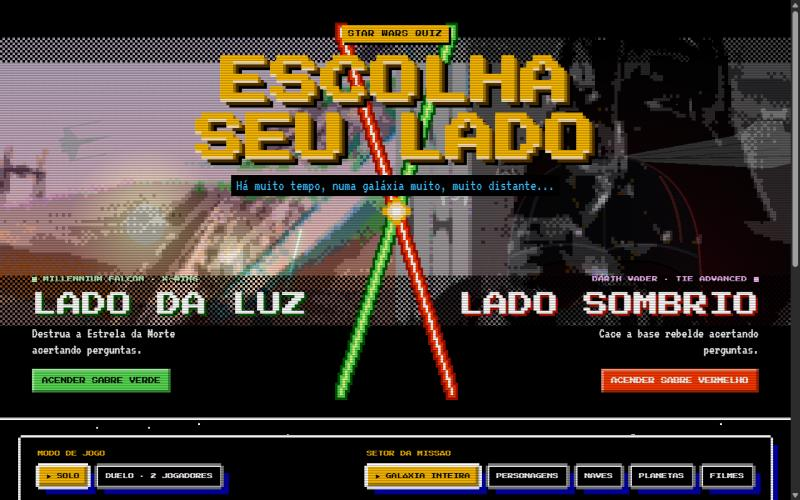
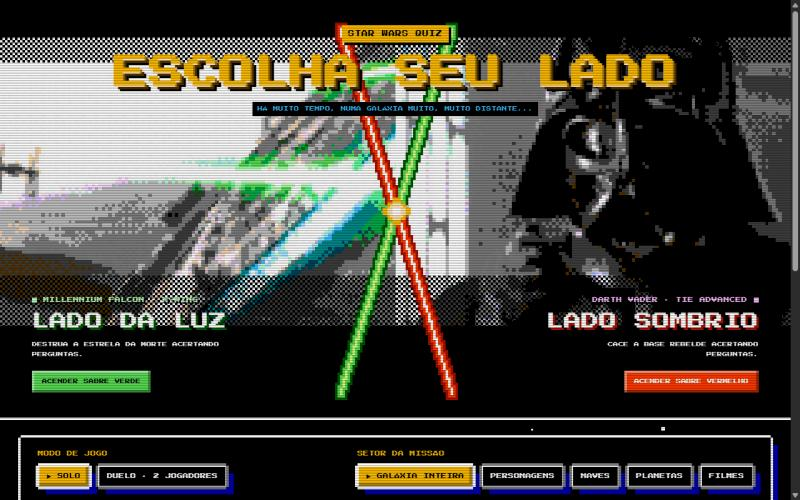
Deixa todo o texto em maiúsculas, pequeno e pixelado
- Press Start 2P em todo o site, no lugar da VT323, com text-transform
  uppercase; texto corrido em 8px e títulos reduzidos na mesma proporção.
- Screenshots do README refeitas.

diff --git a/css/style.css b/css/style.css
@@ -20,7 +20,7 @@
   --edge: var(--ink);
   --px: 4px;
   --pixel: "Press Start 2P", "Courier New", monospace;
-  --body: "VT323", "Courier New", monospace;
+  --body: var(--pixel);
   color-scheme: dark;
 }
 body[data-side="light"] { --side: var(--saber-light); }
@@ -34,7 +34,9 @@ body {
   margin: 0;
   background: var(--void);
   color: var(--ink);
-  font: 400 1.375rem/1.15 var(--body);
+  font: 400 .5rem/2 var(--pixel);
+  text-transform: uppercase;
+  letter-spacing: .04em;
   overflow-x: hidden;
   display: flex;
   flex-direction: column;
@@ -54,7 +56,7 @@ body::after {
 canvas.px, .sprite, #stars, #clash-canvas { image-rendering: pixelated; image-rendering: crisp-edges; }
 #stars { position: fixed; inset: 0; width: 100%; height: 100%; z-index: 0; pointer-events: none; }
 .screen { position: relative; z-index: 1; flex: 1; width: 100%; }
-button { font: inherit; color: inherit; cursor: var(--cursor, pointer); }
+button, input { font: inherit; color: inherit; text-transform: inherit; letter-spacing: inherit; cursor: var(--cursor, pointer); }
 button:focus-visible, a:focus-visible, h2:focus-visible, input:focus-visible { outline: 4px dashed var(--gold); outline-offset: 6px; }
 h2:focus { outline: none; }
 a { color: var(--gold); }
@@ -132,7 +134,7 @@ img.px-src, svg.px-src { display: none !important; }
 }
 h1 {
   margin: 0;
-  font: 400 clamp(1.75rem, 6.4vw, 5rem)/1.15 var(--pixel);
+  font: 400 clamp(1.5rem, 4.6vw, 3.5rem)/1.2 var(--pixel);
   text-transform: uppercase;
   text-wrap: balance;
   color: var(--gold);
@@ -145,7 +147,7 @@ h1 {
 .tagline {
   margin: 0;
   padding: 4px 8px;
-  font: 400 clamp(1.125rem, 2vw, 1.5rem)/1.1 var(--body);
+  font: 400 .5rem/1.8 var(--pixel);
   color: var(--holo);
   background: #000;
 }
@@ -235,14 +237,14 @@ canvas.scene-photo { transform-origin: 60% 40%; animation: blink-in .4s steps(3)
   background: currentColor;
   animation: blink 1s steps(1) infinite;
 }
-.side-copy strong { font: 400 clamp(1.25rem, 3.2vw, 2.5rem)/1.2 var(--pixel); text-transform: uppercase; }
+.side-copy strong { font: 400 clamp(1rem, 2.4vw, 1.75rem)/1.3 var(--pixel); text-transform: uppercase; }
 .side-light .side-copy strong { color: #fcfcfc; text-shadow: 4px 4px 0 #005800; }
 .side-dark .side-copy strong { color: #fcfcfc; text-shadow: 4px 4px 0 #a81000; }
-.side-goal { max-width: 32ch; font-size: 1.375rem; color: #fcfcfc; }
+.side-goal { max-width: 40ch; font-size: .5rem; line-height: 2; color: #fcfcfc; }
 .side-cta {
   margin-top: 8px;
   padding: 12px 16px;
-  font: 400 .625rem/1.4 var(--pixel);
+  font: 400 .5rem/1.4 var(--pixel);
   text-transform: uppercase;
   color: #000;
   text-shadow: none;
@@ -296,7 +298,7 @@ canvas.scene-photo { transform-origin: 60% 40%; animation: blink-in .4s steps(3)
 .chip[aria-pressed="true"]::before { content: "▶ "; }
 .readouts { display: flex; flex-wrap: wrap; gap: 12px 36px; margin: 0; }
 .readouts dt { margin-bottom: 6px; color: var(--muted); }
-.readouts dd { margin: 0; font: 400 .875rem/1.4 var(--pixel); color: var(--ink); }
+.readouts dd { margin: 0; font: 400 .5rem/1.4 var(--pixel); color: var(--ink); }
 
 /* Galeria do holocron */
 .holocron { position: relative; z-index: 1; display: grid; gap: 18px; padding-block: 40px 24px; overflow: hidden; }
@@ -309,7 +311,7 @@ canvas.scene-photo { transform-origin: 60% 40%; animation: blink-in .4s steps(3)
   width: min(1200px, calc(100% - 40px));
   margin: 0 auto;
 }
-.holocron-head .eyebrow { color: var(--holo); font-size: .75rem; }
+.holocron-head .eyebrow { color: var(--holo); font-size: .5rem; }
 .holocron-head .eyebrow::before { content: "■ "; animation: blink 1s steps(1) infinite; }
 .holocron-note { margin: 0; color: var(--muted); }
 .reel { overflow: hidden; padding-block: 8px; }
@@ -378,7 +380,7 @@ canvas.scene-photo { transform-origin: 60% 40%; animation: blink-in .4s steps(3)
 .hud-stats { display: flex; gap: 28px; margin: 0; }
 .hud-stats div { display: flex; align-items: baseline; gap: 10px; }
 .hud-stats dt { font: 400 .5rem var(--pixel); text-transform: uppercase; color: var(--muted); }
-.hud-stats dd { margin: 0; font: 400 1rem var(--pixel); color: var(--side); text-shadow: 3px 3px 0 #000; }
+.hud-stats dd { margin: 0; font: 400 .75rem var(--pixel); color: var(--side); text-shadow: 3px 3px 0 #000; }
 .ghost {
   padding: 9px 12px;
   background: #000;
@@ -544,7 +546,7 @@ canvas.scene-photo { transform-origin: 60% 40%; animation: blink-in .4s steps(3)
 .qa .eyebrow::before { content: "▶"; animation: blink 1s steps(1) infinite; }
 .qa h2 {
   margin: 0;
-  font: 400 clamp(1rem, 2.2vw, 1.625rem)/1.5 var(--pixel);
+  font: 400 clamp(.75rem, 1.6vw, 1rem)/1.8 var(--pixel);
   text-wrap: balance;
   text-shadow: 4px 4px 0 #000;
 }
@@ -581,7 +583,7 @@ canvas.scene-photo { transform-origin: 60% 40%; animation: blink-in .4s steps(3)
 .option .thumb[data-kind="ship"] img, .option .thumb[data-kind="planet"] img { padding: 4%; }
 .option .thumb[data-kind="poster"] { width: 44px; height: 62px; }
 .option .thumb .photo-fallback, .scale-name .thumb .photo-fallback, .review .thumb .photo-fallback { padding: 14%; }
-.option-label { min-width: 0; font-size: 1.5rem; line-height: 1; }
+.option-label { min-width: 0; font-size: .5rem; line-height: 1.8; }
 button.option:hover:not(:disabled) { background: var(--side); color: var(--side-ink); --edge: var(--ink); }
 button.option:hover:not(:disabled) kbd { background: #000; color: var(--side); --edge: var(--ink); }
 button.option:hover:not(:disabled)::before {
@@ -612,7 +614,7 @@ button.option:active:not(:disabled) { transform: translate(4px, 4px); --drop: 4p
 .option.is-wrong::after { background-image: var(--icon-cross); background-size: 18px auto; filter: invert(1); }
 @keyframes hit { 25% { transform: translateX(-8px); } 50% { transform: translateX(8px); } 75% { transform: translateX(-4px); } }
 .lifelines { display: flex; flex-wrap: wrap; gap: 14px 18px; align-items: center; padding: 4px; }
-.timer-readout { margin-left: auto; font: 400 1.125rem var(--pixel); color: var(--side); text-shadow: 3px 3px 0 #000; }
+.timer-readout { margin-left: auto; font: 400 .75rem var(--pixel); color: var(--side); text-shadow: 3px 3px 0 #000; }
 .reveal {
   display: grid;
   gap: 14px;
@@ -624,7 +626,7 @@ button.option:active:not(:disabled) { transform: translate(4px, 4px); --drop: 4p
   animation: drop-in .3s steps(3) both;
 }
 .reveal p { margin: 0; }
-.verdict { font: 400 1.25rem/1.3 var(--pixel); text-transform: uppercase; text-shadow: 4px 4px 0 #000; }
+.verdict { font: 400 .875rem/1.5 var(--pixel); text-transform: uppercase; text-shadow: 4px 4px 0 #000; }
 .verdict.good { color: var(--good); }
 .verdict.bad { color: var(--bad); }
 .primary {
@@ -673,7 +675,7 @@ body[data-side="duel"] { --side: var(--gold); }
   background: #000;
   border: 0;
   color: var(--ink);
-  font: 400 1.375rem var(--body);
+  font: 400 .5rem/1.5 var(--pixel);
   --edge: var(--dim);
 }
 .duel-names label:first-child input:focus { outline: none; --edge: var(--saber-light); }
@@ -683,8 +685,8 @@ body[data-side="duel"] { --side: var(--gold); }
 .life { --life: var(--saber-light); display: grid; gap: 8px; min-width: 0; }
 .life-dark { --life: var(--saber-dark); }
 .life header { display: flex; justify-content: space-between; align-items: baseline; gap: 10px; }
-.life header span { font: 400 .75rem/1.4 var(--pixel); text-transform: uppercase; overflow: hidden; text-overflow: ellipsis; white-space: nowrap; }
-.life header b { font: 400 .75rem var(--pixel); color: var(--life); }
+.life header span { font: 400 .5rem/1.6 var(--pixel); text-transform: uppercase; overflow: hidden; text-overflow: ellipsis; white-space: nowrap; }
+.life header b { font: 400 .5rem var(--pixel); color: var(--life); }
 .life-bar { height: 16px; padding: 2px; background: #000; box-shadow: 0 0 0 4px var(--ink); }
 .life-bar i {
   display: block;
@@ -715,7 +717,7 @@ body[data-side="duel"] { --side: var(--gold); }
   font: 400 .875rem/1 var(--pixel);
   --edge: var(--dim);
 }
-.pad-keys button small { font: 400 1rem var(--body); color: var(--muted); }
+.pad-keys button small { font: 400 .4375rem var(--pixel); color: var(--muted); }
 .pad-keys button:hover:not(:disabled) { background: var(--pad); color: #000; --edge: var(--ink); }
 .pad-keys button:hover:not(:disabled) small { color: #000; }
 .pad-keys button:disabled { opacity: .35; cursor: default; }
@@ -766,7 +768,7 @@ body[data-side="duel"] { --side: var(--gold); }
   width: min(92vw, 640px);
   margin-left: calc(min(92vw, 640px) / -2);
   color: var(--crawl);
-  font: 400 clamp(.75rem, 1.8vw, 1rem)/1.9 var(--pixel);
+  font: 400 clamp(.5rem, 1.4vw, .75rem)/2 var(--pixel);
   text-align: justify;
   text-shadow: 3px 3px 0 #000, -1px -1px 0 #000;
   transform-origin: 50% 100%;
@@ -793,7 +795,7 @@ body[data-side="duel"] { --side: var(--gold); }
 }
 .result h2 {
   margin: 0;
-  font: 400 clamp(1.5rem, 5vw, 3.25rem)/1.25 var(--pixel);
+  font: 400 clamp(1.25rem, 3.6vw, 2.25rem)/1.3 var(--pixel);
   text-transform: uppercase;
   color: var(--side);
   text-shadow: .08em .08em 0 #000, .12em .12em 0 var(--ink);
@@ -802,15 +804,15 @@ body[data-side="duel"] { --side: var(--gold); }
 .result p { margin: 0; }
 .result .readouts { display: grid; grid-template-columns: repeat(auto-fit, minmax(160px, 1fr)); gap: 20px; padding: 4px; }
 .result .readouts div { padding: 12px 14px; background: #000; --edge: var(--dim); }
-.result .readouts dd { font-size: 1.125rem; color: var(--side); }
+.result .readouts dd { font-size: .75rem; color: var(--side); }
 .result-actions { display: flex; flex-wrap: wrap; gap: 18px; padding: 4px; }
 .copy-text { display: block; margin: 4px; padding: 10px; background: #000; user-select: all; overflow-wrap: anywhere; --edge: var(--dim); }
-.result h3 { margin: 12px 0 8px; font: 400 .875rem/1.4 var(--pixel); text-transform: uppercase; color: var(--gold); }
+.result h3 { margin: 12px 0 8px; font: 400 .625rem/1.6 var(--pixel); text-transform: uppercase; color: var(--gold); }
 .review { margin: 0; padding: 4px; list-style: none; display: grid; gap: 18px; }
 .review li { display: flex; gap: 14px; align-items: center; padding: 10px 12px; background: #000; --edge: var(--dim); }
 .review .thumb { flex: none; width: 52px; height: 52px; }
 .review .thumb[data-kind="poster"] { width: 40px; height: 58px; }
-.review small { display: block; color: var(--muted); font-size: 1.25rem; }
+.review small { display: block; margin-top: 6px; color: var(--muted); font-size: .4375rem; line-height: 1.9; }
 
 .credits {
   position: relative;
@@ -818,7 +820,8 @@ body[data-side="duel"] { --side: var(--gold); }
   padding-block: 16px;
   padding-left: max(16px, env(safe-area-inset-left, 0px));
   padding-right: max(16px, env(safe-area-inset-right, 0px));
-  font-size: 1.125rem;
+  font-size: .4375rem;
+  line-height: 2;
   color: var(--muted);
   text-align: center;
   background: #000;
@@ -833,7 +836,7 @@ body[data-side="duel"] { --side: var(--gold); }
 @media (max-width: 760px) {
   .versus { flex-direction: column; min-height: 0; }
   .masthead { position: static; padding-block: 24px 20px; }
-  h1 { font-size: clamp(1.5rem, 9vw, 2.75rem); }
+  h1 { font-size: clamp(1.25rem, 7vw, 2rem); }
   .side { flex: none; height: 440px; }
   .side + .side { border-top: var(--px) solid var(--ink); }
   .side:hover, .side:focus-visible { flex-grow: 0; }
@@ -867,7 +870,7 @@ body[data-side="duel"] { --side: var(--gold); }
   button.option:hover:not(:disabled)::before { display: none; }
   .hud-top #quit, .hud-top #sound { font-size: .4375rem; padding: 8px; }
   .hud-stats { gap: 14px; }
-  .hud-stats dd { font-size: .75rem; }
+  .hud-stats dd { font-size: .5rem; }
   .hud-stats dt { position: absolute; width: 1px; height: 1px; overflow: hidden; clip-path: inset(50%); }
   .hud-top { flex-wrap: nowrap; }
   .timer-readout { margin-left: 0; }
@@ -877,7 +880,7 @@ body[data-side="duel"] { --side: var(--gold); }
   .pad { padding: 10px; }
   .pad-keys { grid-template-columns: repeat(2, minmax(0, 1fr)); }
   .pad-keys button small { display: none; }
-  .life header span, .life header b { font-size: .5625rem; }
+  .life header span, .life header b { font-size: .4375rem; }
   .duel-names input { width: calc(100% - 8px); }
   .duel-names label { flex: 1 1 140px; }
   /* No duelo, pergunta, alternativas e paineis precisam caber juntos na tela. */
@@ -885,10 +888,10 @@ body[data-side="duel"] { --side: var(--gold); }
   body[data-side="duel"] .holo { display: none; }
   body[data-side="duel"] .console { padding-block: 14px 22px; gap: 14px; }
   body[data-side="duel"] .qa { gap: 14px; }
-  body[data-side="duel"] .qa h2 { font-size: .875rem; }
+  body[data-side="duel"] .qa h2 { font-size: .625rem; }
   body[data-side="duel"] .options { grid-template-columns: repeat(2, minmax(0, 1fr)); gap: 14px; }
   body[data-side="duel"] .option { min-height: 48px; padding: 8px; gap: 8px; flex-wrap: wrap; }
-  body[data-side="duel"] .option-label { font-size: 1.25rem; }
+  body[data-side="duel"] .option-label { font-size: .4375rem; }
   body[data-side="duel"] .option .thumb { width: 32px; height: 32px; }
   body[data-side="duel"] .pick-badge { margin-left: 0; }
   .duel-hud { padding-block: 10px 12px; gap: 18px; }

diff --git a/index.html b/index.html
@@ -11,7 +11,7 @@
 <link rel="preconnect" href="https://static.wikia.nocookie.net">
 <link rel="preconnect" href="https://fonts.googleapis.com">
 <link rel="preconnect" href="https://fonts.gstatic.com" crossorigin>
-<link rel="stylesheet" href="https://fonts.googleapis.com/css2?family=Press+Start+2P&family=VT323&display=swap">
+<link rel="stylesheet" href="https://fonts.googleapis.com/css2?family=Press+Start+2P&display=swap">
 <link rel="stylesheet" href="css/style.css">
 </head>
 <body data-side="none">

diff --git a/README.md b/README.md
@@ -14,7 +14,7 @@ Quiz de fã em HTML, CSS e JavaScript puros, com visual de jogo de 8 bits. Escol
 
 **Modo Duelo**
 
-![Rodada do Duelo com Obi-Wan Kenobi em pixel art, as respostas de cada jogador e as barras de vida em blocos](docs/screenshots/06-duelo.png)
+![Rodada do Duelo com Boba Fett em pixel art, as respostas de cada jogador e as barras de vida em blocos](docs/screenshots/06-duelo.png)
 
 | No celular | Pergunta no celular |
 | --- | --- |
@@ -27,7 +27,7 @@ Quiz de fã em HTML, CSS e JavaScript puros, com visual de jogo de 8 bits. Escol
 - Barras em escala real depois das perguntas de comparação.
 - 20 segundos por pergunta, multiplicador por sequência de acertos e recorde salvo no navegador.
 - "Usar a Força" corta 2 alternativas, e "Saltar" troca a pergunta, uma vez cada por partida.
-- Visual de 8 bits: fontes pixeladas, caixas com cantos recortados, barras em blocos, animações em passos e sons em onda quadrada.
+- Visual de 8 bits: todo o texto em letras maiúsculas, pequenas e pixeladas (Press Start 2P), caixas com cantos recortados, barras em blocos, animações em passos e sons em onda quadrada.
 - Fotos reais de personagens, naves, planetas e pôsteres (Wookieepedia), convertidas na hora em pixel art com a paleta do NES e pontilhado, no holoprojetor, nas alternativas, na galeria do holocron e nas telas de abertura e resultado. Quando a foto entregaria a resposta, o holoprojetor mostra os candidatos lado a lado.
 - Salto para o hiperespaço, sons sintetizados e atalhos de 1 a 4 no teclado.
 - Patente final de Youngling a Mestre Jedi, ou de Acólito a Lorde Sombrio.
